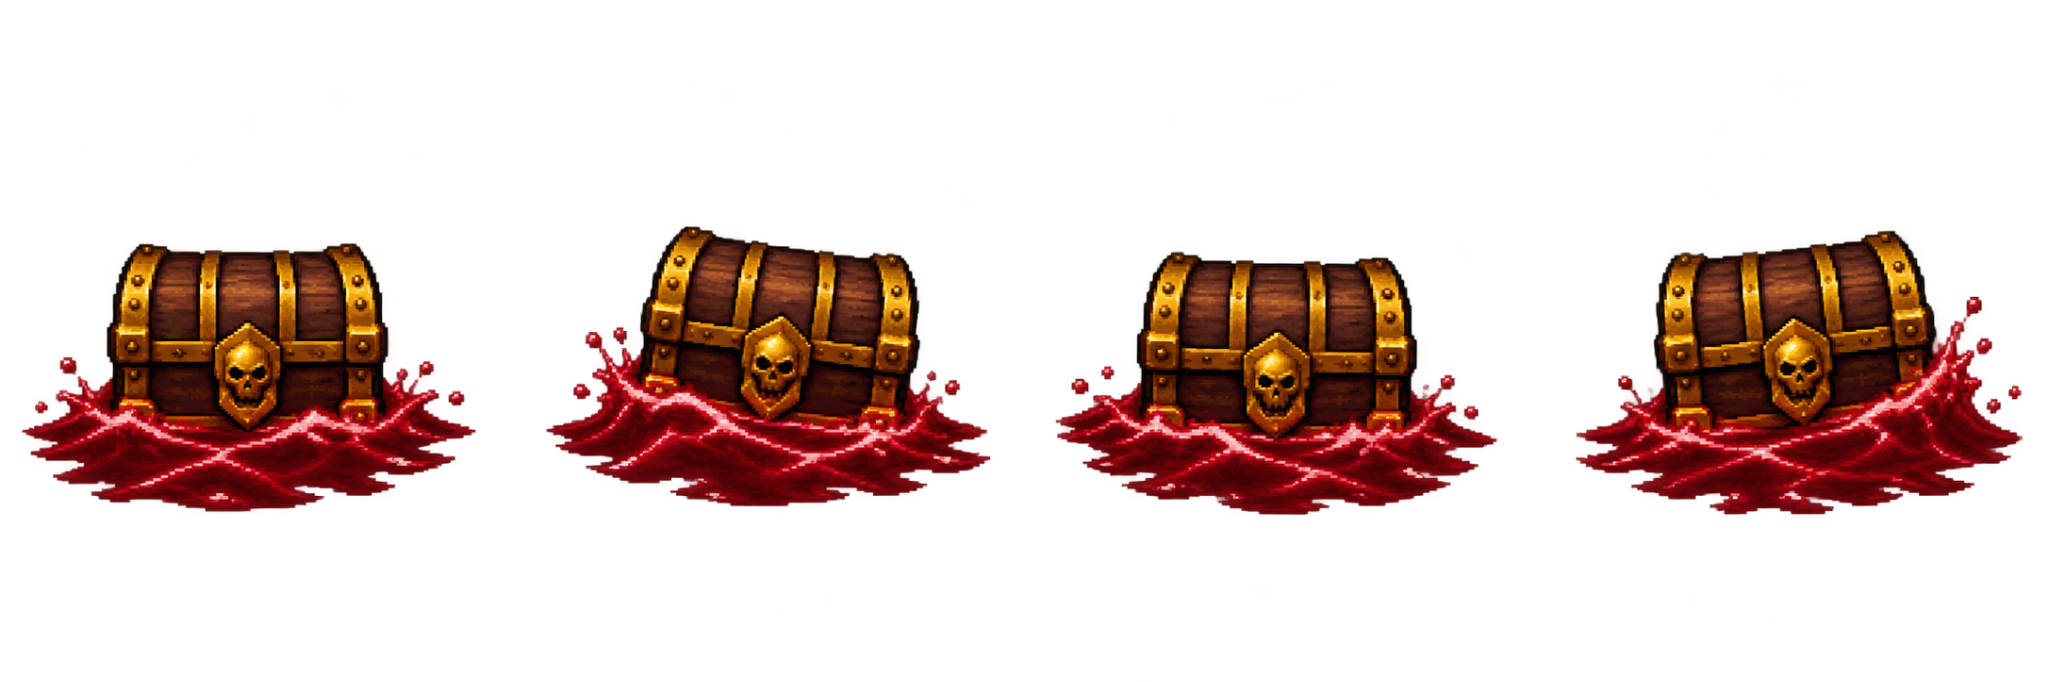
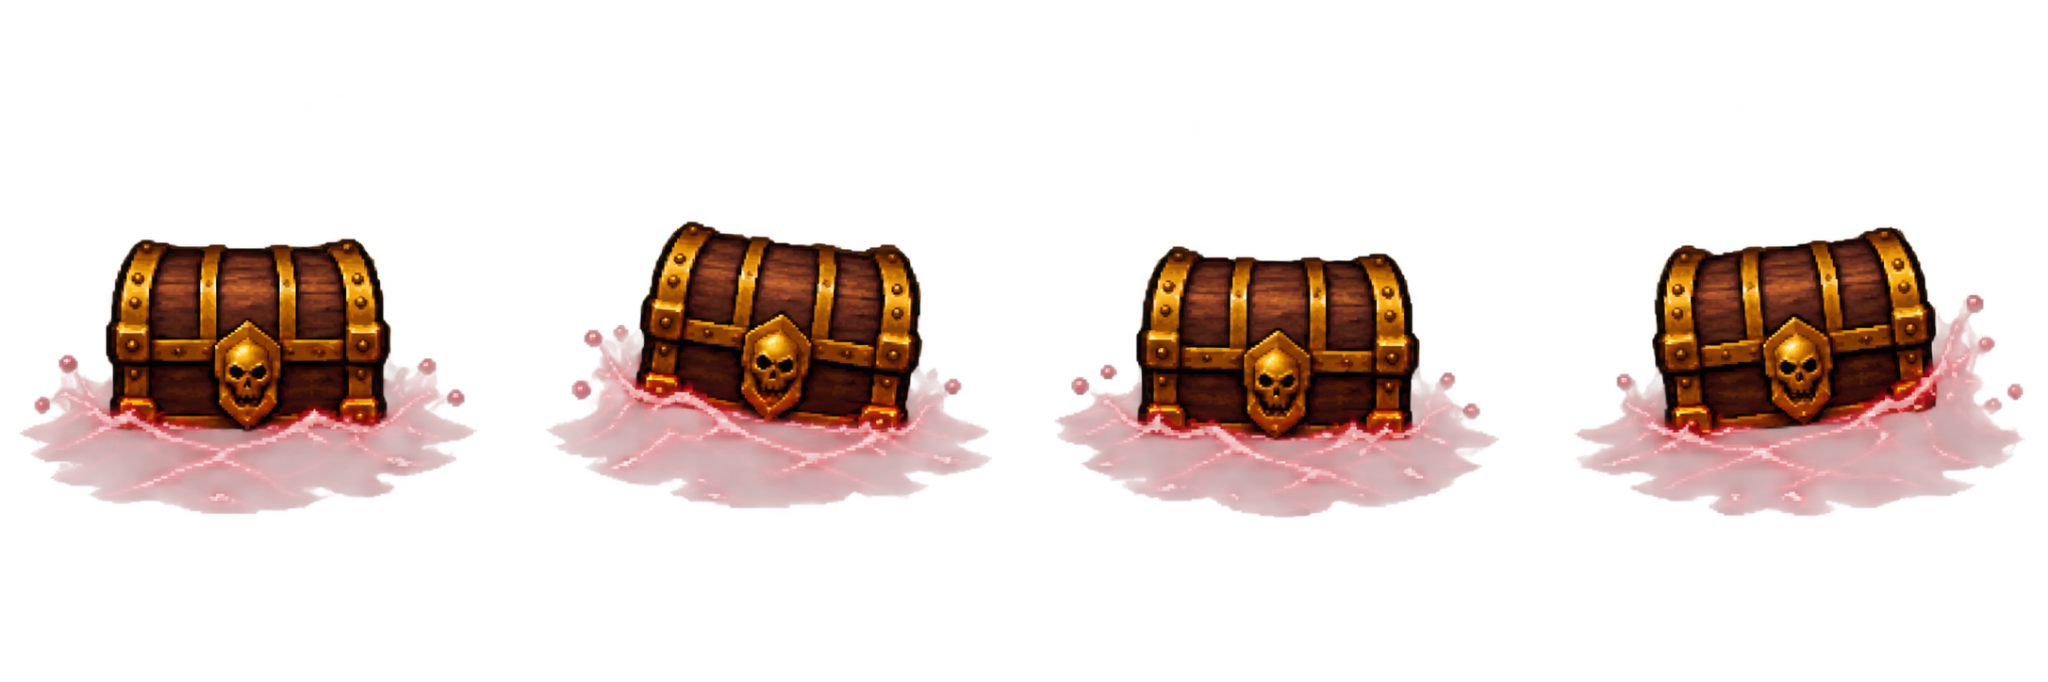
Assets: treasure chest original RGBA animation
* assets: replace floating treasure chest with supplied RGBA animation

* test: allow newer PWA cache in crab and turtle regression

Changed region(s): [[0.0, 0.3079, 1.0, 0.7698]]

diff --git a/sw.js b/sw.js
@@ -1,4 +1,4 @@
-const CACHE_NAME='omar-mar-de-sangue-v105-crab-turtle-animated-20261029';
+const CACHE_NAME='omar-mar-de-sangue-v106-treasure-chest-rgba-20261029';
 const ASSETS=["./","./index.html","./laboratorio-ilhas/catalog.json","./asset-audit.html","./PwaStatus.js","./Game.js","./SeaOceanV3.js","./assets/tiles/sea-v3/sea_chunk_01_base.webp","./assets/tiles/sea-v3/sea_chunk_02_base.webp","./assets/tiles/sea-v3/sea_chunk_03_base.webp","./assets/tiles/sea-v3/sea_chunk_04_base.webp","./SeaEffects.js","./SeaWeather.js","./SeaMenus.js","./SeaPoliticalEvents.js","./SeaFactions.js","./SeaFactionPolitics.js","./SeaIslandRules.js","./SeaIslands.js","./SeaAtlas.js","./SeaGunnery.js","./SeaImpulse.js","./SeaCannonChargeFx.js","./SeaContracts.js","./SeaPerformance.js","./SeaPerformanceCompare.js","./SeaPixelPolish.js","./SeaSaveTransfer.js","./PortUI.js","./PortUI.css","./PortThemeAbyss.css","./PortMobileCompact.css","./style.css","./phaser.min.js","./manifest.webmanifest","./assets/abyss/coral_horror.png","./assets/abyss/cult_barge.png","./assets/abyss/dagon.png","./assets/abyss/dagon_eye.png","./assets/abyss/dreadnought.png","./assets/abyss/drowned_choir.png","./assets/abyss/kraken.png","./assets/abyss/kraken_tentacle.png","./assets/abyss/shell_guardian.png","./assets/abyss/temple_turtle.png","./assets/fx/cannon_charge_sparks.png","./assets/fx/blast_0.png","./assets/fx/blast_1.png","./assets/fx/blast_2.png","./assets/fx/blast_3.png","./assets/fx/foam_0.png","./assets/fx/foam_1.png","./assets/fx/foam_2.png","./assets/fx/foam_3.png","./assets/fx/gold_0.png","./assets/fx/gold_1.png","./assets/fx/gold_2.png","./assets/fx/gold_3.png","./assets/fx/muzzle_0.png","./assets/fx/muzzle_1.png","./assets/fx/muzzle_2.png","./assets/fx/muzzle_3.png","./assets/fx/muzzle_4f.png","./assets/fx/shrine_glow.png","./assets/fx/smoke_0.png","./assets/fx/smoke_1.png","./assets/fx/smoke_2.png","./assets/fx/smoke_3.png","./assets/fx/splash_0.png","./assets/fx/splash_1.png","./assets/fx/splash_2.png","./assets/fx/splash_3.png","./assets/fx/splash_4f.png","./assets/fx/splinters_0.png","./assets/fx/splinters_1.png","./assets/fx/splinters_2.png","./assets/fx/splinters_3.png","./assets/fx/splinters_4f.png","./assets/fx/violet_0.png","./assets/fx/violet_1.png","./assets/fx/violet_2.png","./assets/fx/violet_3.png","./assets/islands/island_daegon.png","./assets/islands/island_demeter.png","./assets/islands/island_monastery.png","./assets/islands/island_reef.png","./assets/islands/island_ruin.png","./assets/islands/island_wreck.png","./assets/islands/island_destruction_smoke.png","./assets/items/treasure_chest.png","./assets/items/treasure_coin.png","./assets/items/treasure_crate.png","./assets/menu_bg.png","./assets/ui/hud-helm-landscape.png","./assets/ui/hud-combat-landscape.png","./assets/sprites/enemy_admiral.png","./assets/sprites/enemy_bombard.png","./assets/sprites/enemy_corsair.png","./assets/sprites/enemy_court_ship.png","./assets/sprites/enemy_galleon.png","./assets/sprites/enemy_ram.png","./assets/sprites/enemy_spectral.png","./assets/player/mar_de_sangue_navio_proa_baixo_20_evolucoes.png","./assets/player/corte_feerica/mar_de_sangue_navio_corte_feerica_20_evolucoes.png","./assets/player/sobreviventes/mar_de_sangue_navio_sobreviventes_20_evolucoes.png","./assets/player/culto_dagon/mar_de_sangue_navio_culto_dagon_20_evolucoes.png","./assets/tiles/sea_base.png","./assets/tiles/sea_blood.png","./assets/tiles/sea_foam.png","./assets/tiles/sea_mist.png","./assets/ui/command_console.png","./assets/ui/command_console_analog.png","./assets/v15/beast_coral.png","./assets/v15/dagon_emerging.png","./assets/v15/beast_eel_swim.webp","./assets/v15/beast_drowned.png","./assets/v15/beast_kraken.png","./assets/v15/beast_tentacle.png","./assets/v15/fx_frame_00.png","./assets/v15/fx_frame_01.png","./assets/v15/fx_frame_02.png","./assets/v15/fx_frame_03.png","./assets/v15/fx_frame_04.png","./assets/v15/fx_frame_05.png","./assets/v15/fx_frame_06.png","./assets/v15/fx_frame_07.png","./assets/v15/fx_frame_08.png","./assets/v15/fx_frame_09.png","./assets/v15/fx_frame_10.png","./assets/v15/fx_frame_11.png","./assets/v15/fx_frame_12.png","./assets/v15/fx_frame_13.png","./assets/v15/fx_frame_14.png","./assets/v15/fx_frame_15.png","./assets/v15/ship_admiral.png","./assets/v15/ship_blood.png","./assets/v15/ship_chapel.png","./assets/v15/ship_flagship.png","./assets/v15/ship_merchant.png","./assets/v15/ship_ram.png","./assets/v15/ship_royal.png","./assets/v15/ship_sloop.png","./assets/v15/ship_spectral.png","./assets/v15/ship_wrecked.png","./icons/icon-192.png","./icons/icon-512.png"];
 self.addEventListener('install',event=>event.waitUntil(caches.open(CACHE_NAME).then(c=>c.addAll(ASSETS)).then(()=>self.skipWaiting())));
 self.addEventListener('activate',event=>event.waitUntil(caches.keys().then(keys=>Promise.all(keys.filter(k=>k!==CACHE_NAME && k.startsWith('omar-mar-de-sangue')).map(k=>caches.delete(k)))).then(()=>self.clients.claim())));
